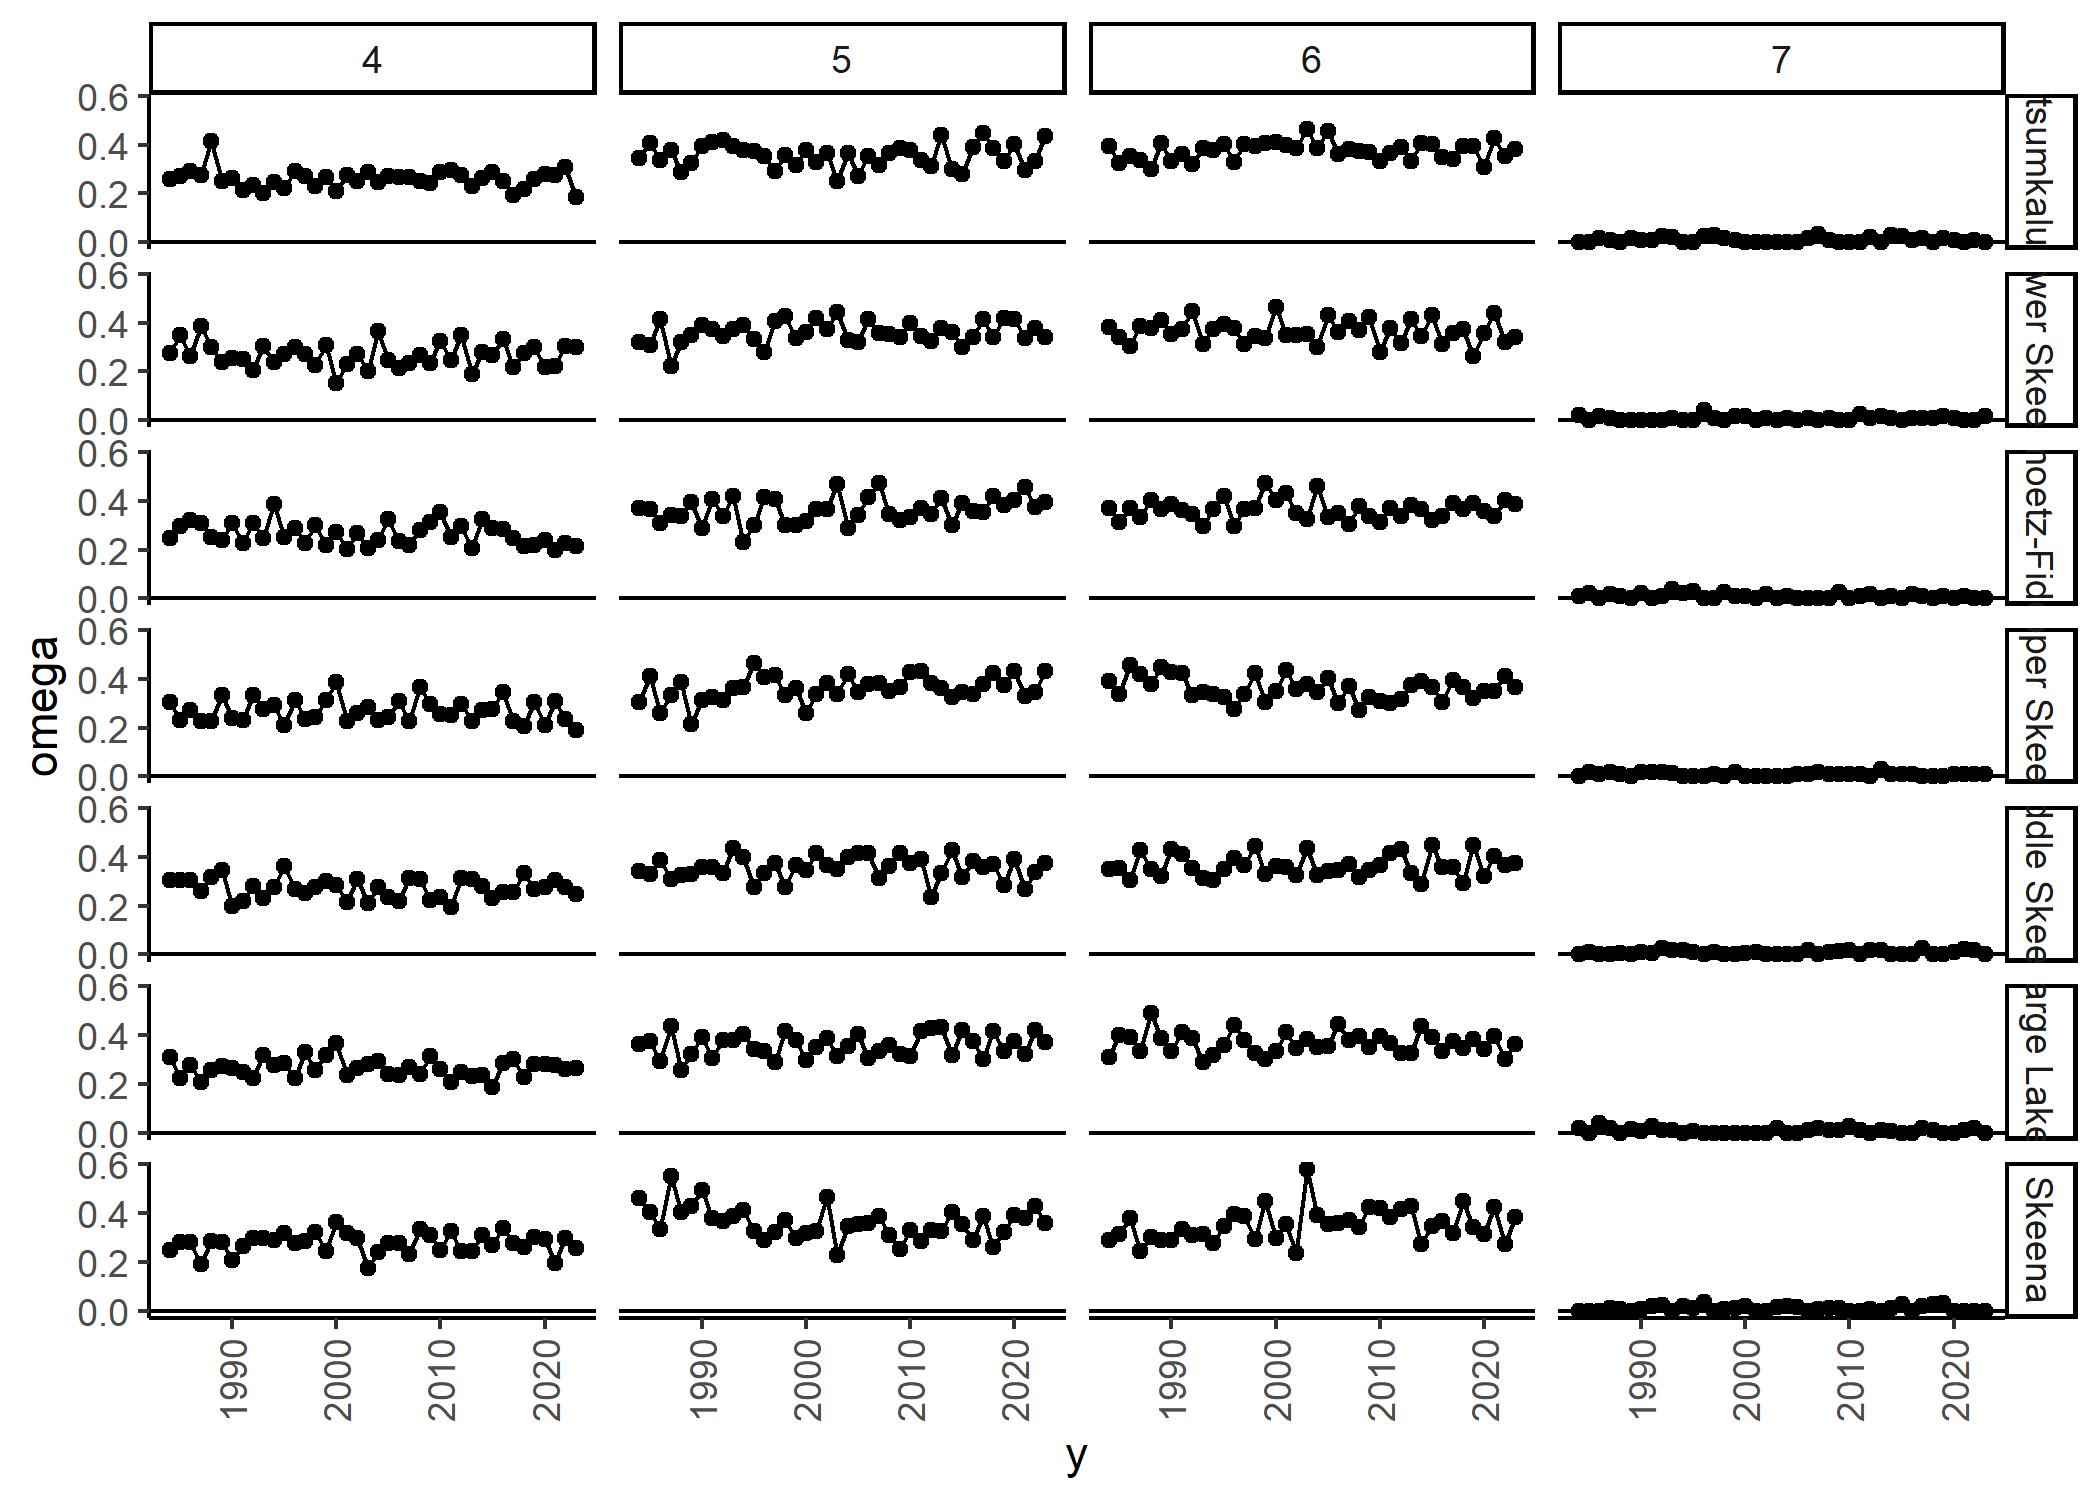
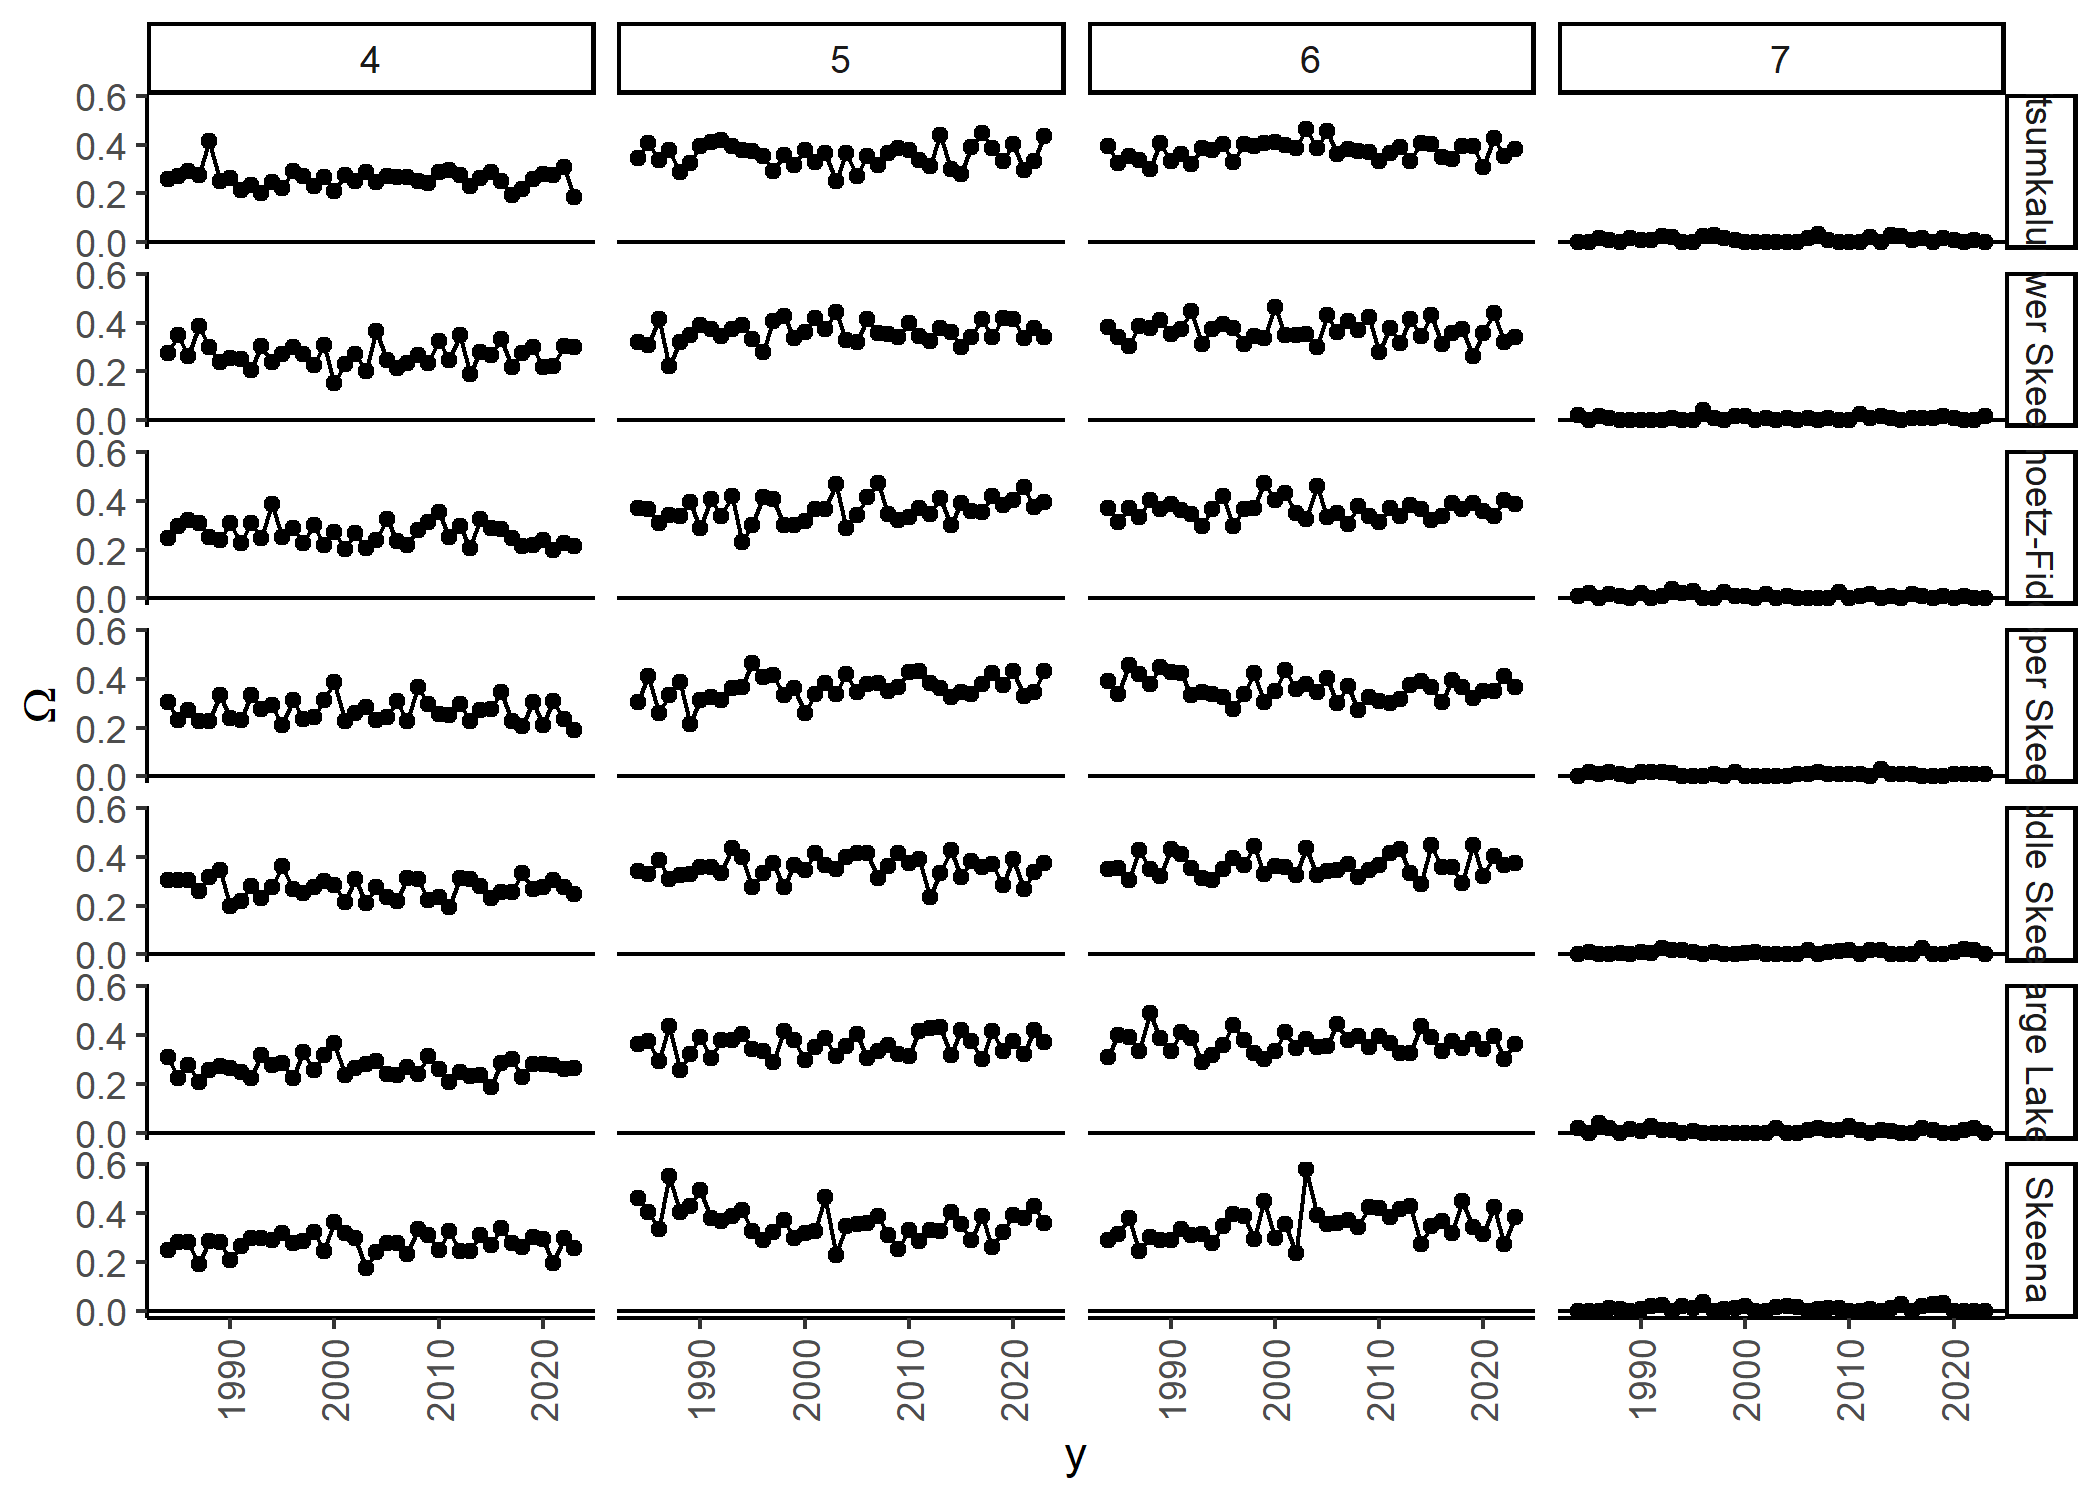
Fix year for p

diff --git a/README.md b/README.md
@@ -62,6 +62,7 @@ ggplot(dp, aes(y = P_tilde, x = y, group = i)) +
   geom_point() +
   geom_line() +
   facet_wrap(~i, ncol=2) +
+  ylab(TeX("$\\tilde{P}$")) +
   geom_hline(aes(yintercept=0)) +
   theme_classic()
 ```
@@ -114,83 +115,6 @@ ggplot(dt, aes(y = X, x = y, group = i)) +
 
 <img src="man/figures/README-example_E-1.png" width="100%" />
 
-Get spawners for each population (accounts for brood stock removals),
-plot with returns to Terrace and escapement. Spawners should only be
-different from escapement for Skeena aggregate and Kitsumkalum, since
-brood removals are only for Kitsumkalum.
-
-``` r
-# make up brood removal data. Much larger than actual values, so that it is visible on plots. 
-B <- sample(2000:3000, size=length(k$y), replace=TRUE)
-S <- get_S(E = E$E, B = B, 
-     brood_population = "Kitsumkalum",
-     aggregate_population = "Skeena")
-ds <- S$df
-
-
-ggplot(dt, aes(y = X, x = y, group = i)) +
-  geom_errorbar( aes( ymin = X - sigma_X, ymax = X + sigma_X)) +
-  geom_point() +
-  geom_line() +
-  geom_line(data = de, aes(y = E, x = y, group=i), colour="gray") +
-  geom_line(data = ds, aes(y = S, x = y, group=i), colour="dodgerblue", linetype=2) +
-  facet_wrap(~i, ncol=2, scales = "free_y") +
-  ylab("Return to Terrace (X) in black, escapement (E) in gray,\nandspawners (S) in blue") +
-  geom_hline(aes(yintercept=0)) +
-  theme_classic()
-```
-
-<img src="man/figures/README-example_S-1.png" width="100%" />
-
-Get wild spawners for each population (accounts for hatchery origin
-spawners), plot with returns to Terrace, escapement, and spawners. Wild
-spawners should only be different from spawners for Skeena aggregate and
-Kitsumkalum, since hatchery origin spawners only occur for Kitsumkalum.
-
-``` r
-# make up hatchery spawners data. Larger than actual values, so that it is visible on plots. 
-H <- sample(600:1000, size=length(k$y), replace=TRUE)
-# get Wild spawners
-W <- get_W( S = S$S, H = H) 
-dw <- W$df
-
-
-ggplot(dt, aes(y = X, x = y, group = i)) +
-  geom_errorbar( aes( ymin = X - sigma_X, ymax = X + sigma_X)) +
-  geom_point() +
-  geom_line() +
-  geom_line(data = de, aes(y = E, x = y, group=i), colour="gray") +
-  geom_line(data = ds, aes(y = S, x = y, group=i), colour="dodgerblue", linetype=2) +
-  geom_line(data = dw, aes(y = W, x = y, group=i), colour="orange", linetype=2) +
-  facet_wrap(~i, ncol=2, scales = "free_y") +
-  ylab("Return to Terrace (X) in black, escapement (E) in gray,\nspawners (S) in blue, and wild spawners in orange") +
-  geom_hline(aes(yintercept=0)) +
-  theme_classic()
-```
-
-<img src="man/figures/README-example_W-1.png" width="100%" />
-
-Get proportion wild spawners for each population and plot. Should only
-be \<1 for Skeena aggregate and Kitsumkalum, since hatchery origin
-spawners only occur for Kitsumkalum. Note this is not real data, p is
-very high for Kitsumkalum across years.
-
-``` r
-p <- get_p(W = W$W, E = E$E)
-dp <- p$df
-
-
-ggplot(dp, aes(y = p, x = y, group = i)) +
-  geom_point() +
-  geom_line() +
-  facet_wrap(~i, ncol=2) +
-  ylab("Proportion wild spawners") +
-  geom_hline(aes(yintercept=0)) +
-  theme_classic()
-```
-
-<img src="man/figures/README-example_p-1.png" width="100%" />
-
 Get age proportions by age, population and year (fake data).
 
 ``` r
@@ -198,8 +122,8 @@ Get age proportions by age, population and year (fake data).
   n_populations <- length(populations)
   years <- k$year
   n_years <- length(years)
-  ages <- c(3,4,5,6,7)
-  p_ages <- c(20,30,40,40,1) # make up relative frequency of different ages
+  ages <- c(4,5,6,7)
+  p_ages <- c(30,40,40,1) # make up relative frequency of different ages
   n_ages <- length(ages)
   # Make up some age data - number of aged fish of each age
   d <- sapply(p_ages, FUN = function(x){ rpois( n = n_populations*n_years, lambda= x) })
@@ -211,12 +135,99 @@ ggplot( do, aes(y = omega, x = y, group = i)) +
   geom_point() + 
   geom_line() + 
   geom_hline(aes(yintercept=0)) + 
+  ylab(TeX("$\\Omega$") )+
   facet_grid( i ~ a ) + 
   theme_classic() +
   theme(axis.text.x = element_text(angle=90, vjust=0.5))
 ```
 
 <img src="man/figures/README-example_omega-1.png" width="100%" />
+
+Get age-specific escapement by using age proportions.
+
+``` r
+E_star <- get_E_star(E = E$E, omega = omega$omega)
+
+ggplot( E_star$df, aes(y = E_star, x = y, group = i)) +
+  geom_point() + 
+  geom_line() + 
+  geom_hline(aes(yintercept=0)) + 
+  facet_grid( i ~ a , scales = "free_y") + 
+  ylab("Escapement (E*)") +
+  theme_classic() +
+  theme(axis.text.x = element_text(angle=90, vjust=0.5))
+```
+
+<img src="man/figures/README-example_E_star-1.png" width="100%" />
+
+Get spawners for each population (accounts for brood stock removals),
+plot with returns to Terrace and escapement. Spawners should only be
+different from escapement for Skeena aggregate and Kitsumkalum, since
+brood removals are only for Kitsumkalum.
+
+``` r
+# make up brood removal data. Much larger than actual values, so that it is visible on plots. 
+B_star <- E_star$E_star["Kitsumkalum",,] * runif(n = length(E_star$E_star["Kitsumkalum",,] ), 0.1, 0.2 )
+B_star[,4] <- 0 # make age 7 brood = 0 so you don't get negative fish in S_star
+S_star <- get_S_star(E_star = E_star$E_star, B_star = B_star)
+
+ggplot( E_star$df, aes(y = E_star, x = y, group = i)) +
+  geom_point() + 
+  geom_line() + 
+  geom_line(data = S_star$df, aes(y = S_star, x = y, group = i), colour="gray") +
+  geom_hline(aes(yintercept=0)) + 
+  facet_grid( i ~ a , scales = "free_y") + 
+  ylab("Escapement (E*) in black and spawners (S*) in gray") +
+  theme_classic() +
+  theme(axis.text.x = element_text(angle=90, vjust=0.5))
+```
+
+<img src="man/figures/README-example_S_star-1.png" width="100%" />
+
+Get wild spawners for each population (accounts for hatchery origin
+spawners), plot with returns to Terrace, escapement, and spawners. Wild
+spawners should only be different from spawners for Skeena aggregate and
+Kitsumkalum, since hatchery origin spawners only occur for Kitsumkalum.
+
+``` r
+# make up hatchery spawners data. Larger than actual values, so that it is visible on plots. 
+H_star <- S_star$S_star["Kitsumkalum",,] * runif(n = length(S_star$S_star["Kitsumkalum",,] ), 0.1, 0.5 )
+H_star[,4] <- 0 # make age 7 hatchery 0 to avoid negative wild spawner values.
+## get Wild spawners
+W_star <- get_W_star( S_star = S_star$S_star, H_star = H_star) 
+
+ggplot( E_star$df, aes(y = E_star, x = y, group = i)) +
+  geom_point() + 
+  geom_line() + 
+  geom_line(data = S_star$df, aes(y = S_star, x = y, group = i), colour="gray") +
+  geom_line(data = W_star$df, aes(y = W_star, x = y, group = i), colour="dodgerblue") +
+  geom_hline(aes(yintercept=0)) + 
+  facet_grid( i ~ a , scales = "free_y") + 
+  ylab("Escapement (E*) in black, spawners (S*) in gray\n, and wild spawners (W*) in blue.") +
+  theme_classic() +
+  theme(axis.text.x = element_text(angle=90, vjust=0.5))
+```
+
+<img src="man/figures/README-example_W_star-1.png" width="100%" />
+
+Get proportion wild spawners for each population and plot. Should only
+be \<1 for Skeena aggregate and Kitsumkalum, since hatchery origin
+spawners only occur for Kitsumkalum. Note this is not real data, p is
+very high for Kitsumkalum across years.
+
+``` r
+p <- get_p(W_star = W_star$W_star, E_star = E_star$E_star)
+
+ggplot(p$df, aes(y = p, x = y, group = i)) +
+  geom_point() +
+  geom_line() +
+  facet_grid(i~a, scales="free_y") +
+  ylab("Proportion wild spawners, p") +
+  geom_hline(aes(yintercept=0)) +
+  theme_classic()
+```
+
+<img src="man/figures/README-example_p-1.png" width="100%" />
 
 Estimate terminal total mortalities in the lower Skeena by population,
 year, and age.
@@ -230,6 +241,7 @@ ggplot( dtauL, aes(y =tau_L, x = y, group = i)) +
   geom_point() + 
   geom_line() + 
   geom_hline(aes(yintercept=0)) + 
+  ylab(TeX("$\\tau_L$")) +
   facet_grid( i ~ a, scales="free_y") + 
   theme_classic() +
   theme(axis.text.x = element_text(angle=90, vjust=0.5))
@@ -252,9 +264,38 @@ ggplot( dtauU, aes(y =tau_U, x = y, group = i)) +
   geom_point() + 
   geom_line() + 
   geom_hline(aes(yintercept=0)) + 
-  facet_grid( i ~ a) + 
+  ylab(TeX("$\\tau_U$")) +
+  facet_grid( i ~ a, scales="free_y") + 
   theme_classic() +
   theme(axis.text.x = element_text(angle=90, vjust=0.5))
 ```
 
 <img src="man/figures/README-example_tau_U-1.png" width="100%" />
+
+Estimate terminal total mortalities in the marine area by population,
+year, and age.
+
+``` r
+use_arr <- W_star$W_star["Kitsumkalum",,]
+tau_dot_M <- array(runif(length(use_arr), 0.01, 0.2), dim = dim(use_arr), dimnames = dimnames(use_arr))
+tau_M <- get_tau_M( W_star = W_star$W_star, tau_dot_M = tau_dot_M)
+
+ggplot( tau_M$df, aes(y =tau_M, x = y, group = i)) +
+  geom_point() + 
+  geom_line() + 
+  geom_hline(aes(yintercept=0)) + 
+  ylab(TeX("$\\tau_M$")) +
+  facet_grid( i ~ a, scales="free_y") + 
+  theme_classic() +
+  theme(axis.text.x = element_text(angle=90, vjust=0.5))
+```
+
+<img src="man/figures/README-example_tau_M-1.png" width="100%" />
+
+Get total terminal mortality
+
+Get wild total terminal mortality
+
+Get wild terminal run
+
+Get mature run
